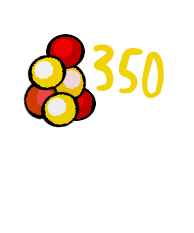
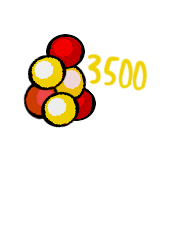
Changed eye purchase amount

Changed region(s): [[0.433, 0.1803, 0.866, 0.4206]]

diff --git a/Pollen/IAPManager.mm b/Pollen/IAPManager.mm
@@ -27,17 +27,17 @@ void IAPManager::completePurchase(const char *product, const char *data, int res
 		
         NSLog(@"purchsucc on %s",product);
         
-        if ([[NSString stringWithUTF8String:product] rangeOfString:@"SpidderosoPeepers250"].location != NSNotFound)//product is 250 peepers
+        if ([[NSString stringWithUTF8String:product] rangeOfString:@"SpidderosoPeepers250"].location != NSNotFound)//product is named 250 peepers on developer center
         {
-            [GameUtility saveSpidderEyeCount:[GameUtility savedSpidderEyeCount]+350];
-            UIAlertView *alert = [[[UIAlertView alloc] initWithTitle:@"Successful purchase" message:@"350 peepers added" delegate:nil cancelButtonTitle:nil otherButtonTitles:@"Ok", nil] autorelease];
+            [GameUtility saveSpidderEyeCount:[GameUtility savedSpidderEyeCount]+3500];
+            UIAlertView *alert = [[[UIAlertView alloc] initWithTitle:@"Successful purchase" message:@"3500 peepers added" delegate:nil cancelButtonTitle:nil otherButtonTitles:@"Ok", nil] autorelease];
             
             [alert show];
         }
-        else if ([[NSString stringWithUTF8String:product] rangeOfString:@"SpiderrosoPeepers100"].location != NSNotFound)//product is 100 peepers
+        else if ([[NSString stringWithUTF8String:product] rangeOfString:@"SpiderrosoPeepers100"].location != NSNotFound)//product is 100 peepers on developer center
         {
-            [GameUtility saveSpidderEyeCount:[GameUtility savedSpidderEyeCount]+150];
-            UIAlertView *alert = [[[UIAlertView alloc] initWithTitle:@"Successful purchase" message:@"150 peepers added" delegate:nil cancelButtonTitle:nil otherButtonTitles:@"Ok", nil] autorelease];
+            [GameUtility saveSpidderEyeCount:[GameUtility savedSpidderEyeCount]+1500];
+            UIAlertView *alert = [[[UIAlertView alloc] initWithTitle:@"Successful purchase" message:@"1500 peepers added" delegate:nil cancelButtonTitle:nil otherButtonTitles:@"Ok", nil] autorelease];
             
             [alert show];
         }

diff --git a/Pollen/ProductMenuItem.m b/Pollen/ProductMenuItem.m
@@ -134,7 +134,7 @@
     else if (num==2){
         self = [ProductMenuItem itemWithNormalImage:@"storeTemplateConsumable.png" selectedImage:@"storeTemplateConsumable.png" target:self selector:@selector(productClicked:)];
         [self setIsEnabled:YES];
-        [self setProductName:@"150 Spidderoso Peepers"];
+        [self setProductName:@"1500 Spidderoso Peepers"];
         
         self.isIAP= true;
         self.consumable=true;
@@ -159,7 +159,7 @@
     else if (num==3){
         self = [ProductMenuItem itemWithNormalImage:@"storeTemplateConsumable.png" selectedImage:@"storeTemplateConsumable.png" target:self selector:@selector(productClicked:)];
         [self setIsEnabled:YES];
-        [self setProductName:@"350 Spidderoso Peepers"];
+        [self setProductName:@"3500 Spidderoso Peepers"];
         
         self.isIAP= true;
         self.consumable=true;

diff --git a/Pollen/StoreLayer.m b/Pollen/StoreLayer.m
@@ -51,8 +51,8 @@ NSMutableDictionary* productIDs;
         products = [[NSMutableArray array] retain];
         productIDs = [[NSMutableDictionary dictionary] retain];
         
-        [productIDs setObject:@"com.BathtubIndustries.PollenBug.SpidderosoPeepers250" forKey:@"350 Spidderoso Peepers"];
-        [productIDs setObject:@"com.BathtubIndustries.PollenBug.SpiderrosoPeepers100" forKey:@"150 Spidderoso Peepers"];
+        [productIDs setObject:@"com.BathtubIndustries.PollenBug.SpidderosoPeepers250" forKey:@"3500 Spidderoso Peepers"];
+        [productIDs setObject:@"com.BathtubIndustries.PollenBug.SpiderrosoPeepers100" forKey:@"1500 Spidderoso Peepers"];
         
         
         
